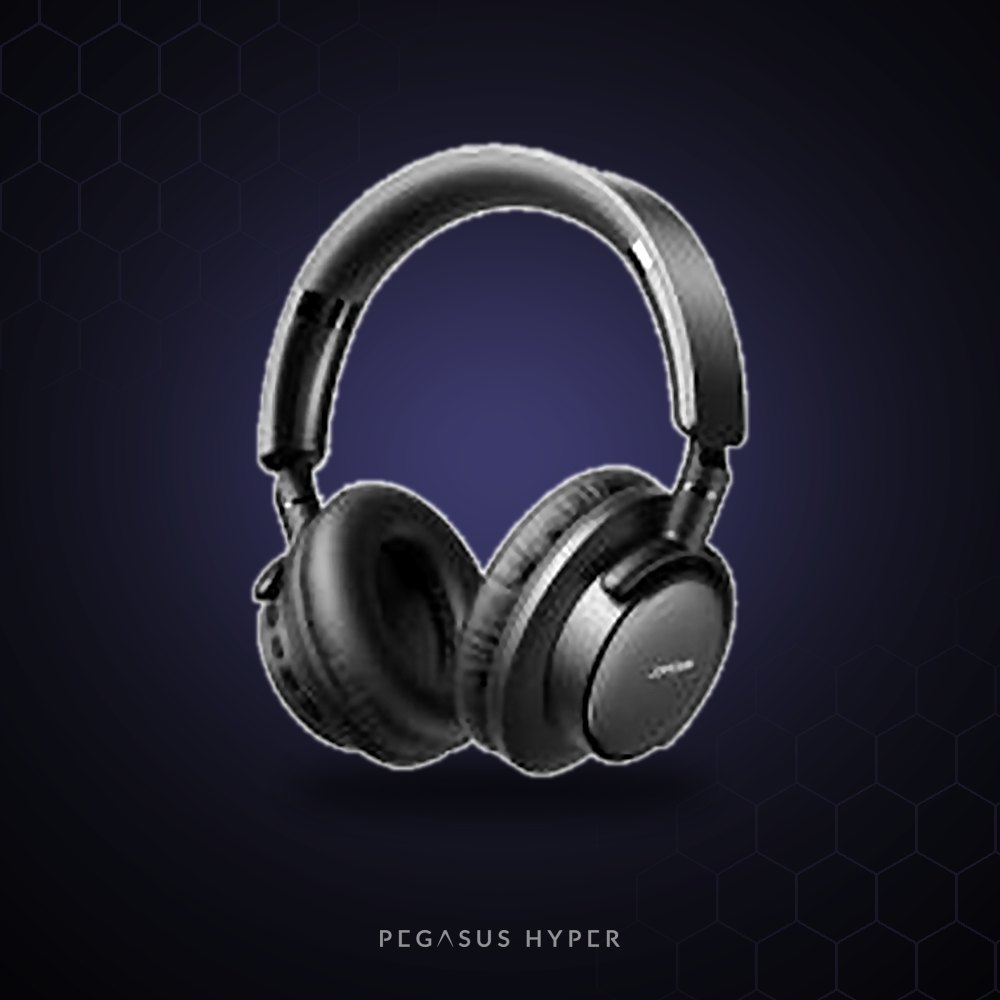
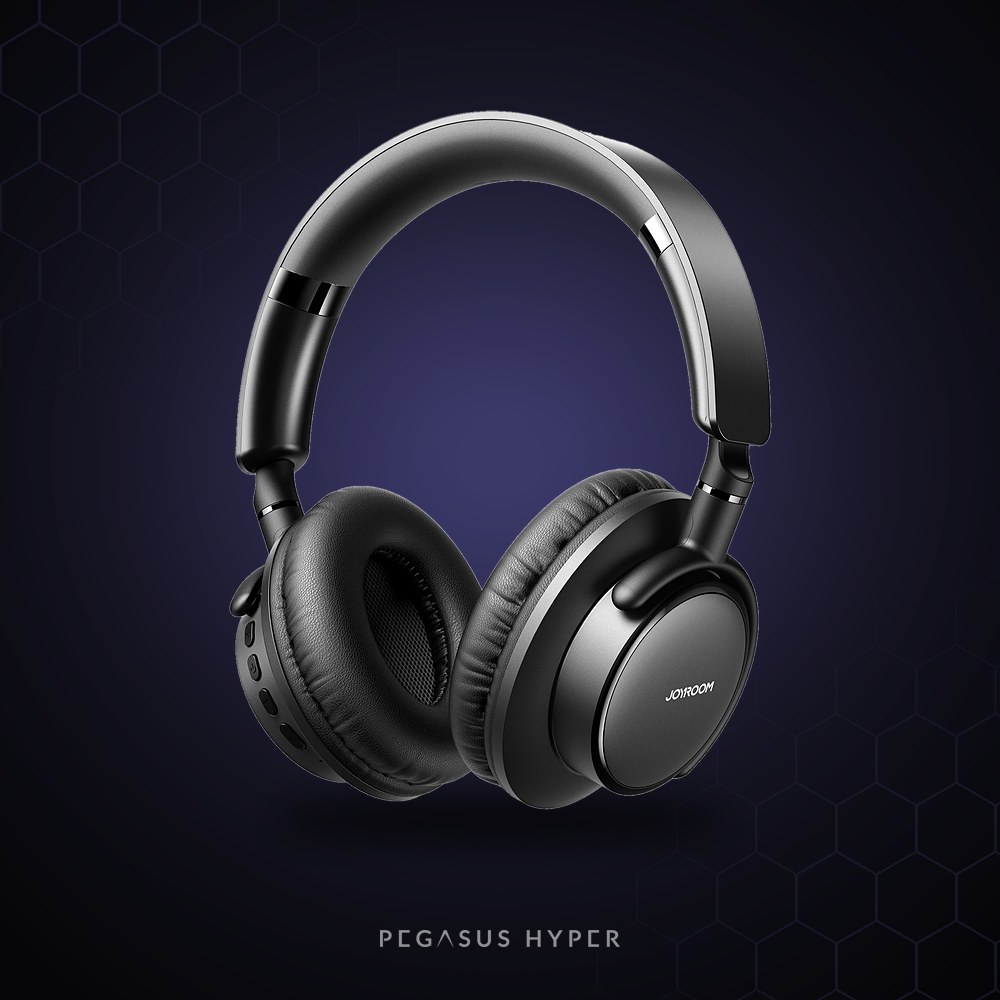
JR-OH1: fotos oficiales tratadas y galería de fotos en la ficha del producto
Claude-Session: https://claude.ai/code/session_01QzBC3GvQTn7Gt9U5Snn8Cv

Changed region(s): [[0.217, 0.093, 0.775, 0.806]]

diff --git a/public/index.html b/public/index.html
@@ -299,6 +299,11 @@ footer button.fl2:hover,footer a:hover{color:#fff}
 @keyframes pop{from{transform:scale(.97);opacity:.6}}
 .pd .ph{background:#0B0B10;position:sticky;top:0}
 .pd .ph img{width:100%;height:100%;object-fit:cover;aspect-ratio:1}
+.pd .ph img#pd-main{height:auto;display:block}
+.pd .thumbs{display:flex;gap:8px;justify-content:center;padding:10px 12px 14px;background:#0B0B10}
+.pd .thumbs button{width:52px;height:52px;padding:0;border-radius:10px;overflow:hidden;border:2px solid rgba(255,255,255,.25);background:#0B0B10;cursor:pointer;flex:none}
+.pd .thumbs button[aria-pressed="true"]{border-color:#fff}
+.pd .thumbs img{width:100%;height:100%;aspect-ratio:1;display:block}
 .pd .tx{padding:26px;display:grid;gap:12px;align-content:start}
 .pd h3{margin:0;font-family:var(--f-display);font-weight:600;font-size:26px;line-height:1.15}
 .pd .price{font-size:30px}
@@ -534,6 +539,7 @@ const prodById=id=>PRODUCTS.find(p=>p.id===id);
 
 /* ---------- product card ---------- */
 const EXTRA={"MER0052":{"modelo":"LX-10","descripcion":"Audífonos inalámbricos Bluetooth con estuche de carga.\nLiviano y fácil de llevar en el bolsillo. Ideal para música, llamadas y videos."},"MER0038":{"modelo":"Z10 Plus","descripcion":"Audífonos inalámbricos Bluetooth con estuche de carga.\nDiseño compacto para usar todos los días: música, llamadas y videos."},"MER0040":{"modelo":"L58","descripcion":"Audífonos inalámbricos Bluetooth con estuche de carga.\nCómodos y livianos, para música y llamadas desde el celular."},"6975011279940":{"modelo":"GH-28","descripcion":"Audífonos inalámbricos con Bluetooth 5.3 y conexión estable de hasta 10 metros.\n• Hasta 4 horas de conversación por carga\n• Hasta 60 horas en espera\n• Estuche de carga de 250 mAh, carga completa en 2 horas"},"6974202422141":{"modelo":"Z50","descripcion":"Audífonos inalámbricos Bluetooth marca Amaya, con estuche de carga con pantalla.\nDiseño moderno para música, llamadas y videos."},"6974208800187":{"modelo":"ATW-10","descripcion":"Audífonos inalámbricos Bluetooth marca Amaya, con estuche de carga.\nDiseño premium para el uso diario."},"6942712400423":{"modelo":"JR-FN3","descripcion":"Audífonos inalámbricos Joyroom con cancelación activa de ruido (ANC) que bloquea hasta −38 dB del ruido exterior.\n• 4 micrófonos con reducción de ruido para llamadas claras\n• Ideales para el bus, la oficina o la calle"},"6956116759285":{"modelo":"JR-OH1","descripcion":"Audífonos de diadema inalámbricos marca Joyroom.\nAlmohadillas cómodas para usar por horas: música, clases, trabajo y juegos."},"MBL005":{"modelo":"BT12C","descripcion":"Intercomunicador Bluetooth para casco de moto: hable por teléfono y escuche música mientras maneja.\n• Bluetooth 5.0, alcance de 10 metros\n• Batería de 1000 mAh: 15 a 20 horas de uso continuo\n• Hasta 240 horas en espera\n• Contesta llamadas de forma automática o manual"},"MBL0009":{"modelo":"BT22","descripcion":"Intercomunicador Bluetooth para casco de moto.\nHable por teléfono y escuche la música o el GPS sin quitarse el casco."},"PPB0179":{"modelo":"Y-598","descripcion":"Parlante Bluetooth con diseño flotante y sonido 360° que llena todo el espacio.\n• Parlante de 40 mm con imán de neodimio y subwoofer\n• Al apagarse, el cuerpo flotante se sujeta solo a la base para no caerse"},"PPB0186":{"modelo":"GS-31","descripcion":"Parlante Bluetooth 5.0 con función manos libres para contestar llamadas.\n• Dos parlantes de 5 W\n• Batería de 1200 mAh: unas 3 horas de música\n• Alcance de 10 metros"},"689237565287":{"modelo":"OP-528","descripcion":"Parlante Bluetooth de fiesta, incluye micrófonos para karaoke.\n• Potencia máxima de 25 W\n• Parlante de 4\" y tweeter de 1,5\"\n• Batería de 3600 mAh: hasta 6 horas de uso\n• Bluetooth 5.0"},"689237566587":{"modelo":"OP-521","descripcion":"Parlante Bluetooth con luces LED RGB y cargador inalámbrico para el celular.\n• Potencia de 10 W\n• Bluetooth 5.0, alcance de 10 metros\n• Entradas USB, AUX y tipo C"},"6920465335506":{"modelo":"OP-550","descripcion":"Parlante Bluetooth grande marca Oudiobop, ideal para fiestas y reuniones."},"6954851211907":{"modelo":"RB-M2","descripcion":"Parlante Bluetooth compacto marca Remax, serie Cooplay.\nPequeño, resistente y fácil de llevar a cualquier lugar."},"6954823523243":{"modelo":"P-01","descripcion":"Cargador de pared USB marca Planet, para el uso diario en la casa o la oficina."},"CTC0036":{"modelo":"EI2","descripcion":"Cargador de pared con carga rápida QC 3.0 de hasta 18 W. Incluye cable tipo C.\n• Salidas: 5 V 3,1 A · 9 V 2,1 A · 12 V 1,6 A\n• Entrada universal 100–240 V"},"6975011274839":{"modelo":"GA-55MTO","descripcion":"Cargador de pared marca Gerlax con cable tipo C incluido."},"6954851233770":{"modelo":"RCC353","descripcion":"Cargador para carro con transmisor FM: cargue el celular y escuche su música por la radio del carro.\n• Salida de 3 A"},"6971916562231":{"modelo":"CB21","descripcion":"Cable USB a tipo C de 1 metro para cargar y pasar datos."},"CBCL0022":{"modelo":"CB26","descripcion":"Cable USB a Lightning de 2 metros para iPhone y iPad.\nEl largo ideal para usar el celular mientras carga."},"6954851294078":{"modelo":"RC-129i","descripcion":"Cable USB a Lightning de 1 metro para iPhone.\nCarga y transfiere datos al mismo tiempo."},"6956116728199":{"modelo":"S-A43","descripcion":"Cable USB a Lightning de 1,5 metros para iPhone, con chip inteligente para carga rápida.\n• Cobre grueso que no se calienta\n• Trenzado reforzado: resiste más de 10.000 dobleces"},"6956116765002":{"modelo":"JR-PR1","descripcion":"Batería portátil de 10.000 mAh con carga rápida de hasta 22,5 W.\n• Salida y entrada tipo C\n• Tamaño compacto: 10,2 × 6 × 2,7 cm, 200 g\n• Carga el celular varias veces"},"6954851212980":{"modelo":"RPP-588","descripcion":"Batería portátil de 15.000 mAh, batería de polímero de litio.\nIdeal para viajes y días largos fuera de casa."},"6954851237808":{"modelo":"CP-1","descripcion":"Batería portátil con carga inalámbrica magnética de 15 W y carga rápida de 22,5 W.\n• Se pega magnéticamente a iPhone con MagSafe\n• Compatible con carga inalámbrica de 5 a 15 W"},"6956116793807":{"modelo":"JR-ZS240 Pro","descripcion":"Soporte para celular que se instala en la rejilla del aire del carro.\nFirme y fácil de usar con el GPS."},"6941237197160":{"modelo":"JR-ZS291","descripcion":"Soporte magnético para la rejilla del carro con carga inalámbrica de hasta 15 W.\n• Imanes de neodimio que alinean el celular solo\n• Para celulares de 4,7\" a 6,7\"\n• Entrada tipo C"},"6956116734817":{"modelo":"JR-ZS393","descripcion":"Soporte magnético con ventosas que se pega a cualquier superficie lisa: espejo, azulejo, carro o escritorio.\n• Imanes N52 de alta potencia\n• Compatible con iPhone 12 a 15 y estuches MagSafe; otros celulares con el anillo metálico incluido"},"HHM0002":{"modelo":"YC50","descripcion":"Soporte de escritorio para celular marca Yookie, color plateado.\nIdeal para videollamadas, recetas o ver videos."},"6976623340578":{"modelo":"MG-02","descripcion":"Soporte de cuello para grabar con el celular o una cámara con las manos libres.\n• Compatible con MagSafe\n• Silicona y policarbonato, 235 g\n• Incluye clip para celular, adhesivo y correa"},"6956116743826":{"modelo":"JR-FC1","descripcion":"Reloj inteligente con pantalla redonda de 1,28\" y función de llamadas.\n• Resistente al agua IP68\n• Bluetooth 5.3\n• Batería de 220 mAh"},"6956116717872":{"modelo":"JR-FT5","descripcion":"Reloj inteligente con pantalla táctil de 1,83\".\n• Resistente al agua IP68\n• Batería de 300 mAh: de 7 a 10 días de uso típico\n• Bluetooth 5.3"},"RRI0036":{"modelo":"HK98","descripcion":"Reloj inteligente con pantalla redonda HD de 1,43\".\n• Ritmo cardíaco, sueño, pasos y ejercicio\n• Contesta y marca llamadas, avisos de mensajes\n• Resistente al agua IP67, compatible con iPhone y Android"},"PPT0012":{"modelo":"ITOP-305","descripcion":"Vidrio templado King Kong para iPhone 17 y 17 Pro.\n• Alta resistencia contra golpes, rayones y caídas\n• Alta definición: mantiene la nitidez de la pantalla\n• Instalación rápida y sin burbujas"},"PPT0011":{"modelo":"ITOP-305","descripcion":"Vidrio templado King Kong para iPhone 17 y iPhone Air.\n• Alta resistencia contra golpes, rayones y caídas\n• Alta definición: mantiene la nitidez de la pantalla\n• Instalación rápida y sin burbujas"},"PPT0005":{"modelo":"ITOP-305","descripcion":"Vidrio templado King Kong para iPhone 16.\n• Alta resistencia contra golpes, rayones y caídas\n• Alta definición: mantiene la nitidez de la pantalla\n• Instalación rápida y sin burbujas"},"PPT0007":{"modelo":"ITOP-305","descripcion":"Vidrio templado King Kong para iPhone 16 Pro.\n• Alta resistencia contra golpes, rayones y caídas\n• Alta definición: mantiene la nitidez de la pantalla\n• Instalación rápida y sin burbujas"},"PPT0004":{"modelo":"ITOP-305","descripcion":"Vidrio templado King Kong para iPhone 15 Pro Max.\n• Alta resistencia contra golpes, rayones y caídas\n• Alta definición: mantiene la nitidez de la pantalla\n• Instalación rápida y sin burbujas"},"H0011":{"modelo":"Tuya Neón 5 m","descripcion":"Tira LED tipo neón RGB de 5 metros que se controla desde el celular con la app Tuya.\n• Colores RGB con efectos\n• Para decorar cuartos, escritorios y setups gamer\n• Uso en interiores (no es resistente al agua)"},"TRAC0018":{"modelo":"FL-S20D","descripcion":"Lámpara LED plana de 9\" con soporte de escritorio, ideal para videollamadas, clases y videos.\n• 5 tonos de luz y brillo ajustable\n• Cabezal giratorio de 180°\n• Batería recargable por USB"},"TRAC0019":{"modelo":"HL-144M","descripcion":"Barra de luz RGB portátil para fotos y videos.\n• 144 LED, potencia de 15 W\n• Batería de 4000 mAh: de 2 a 10 horas de uso\n• Carga tipo C en 2,5 horas"},"TRMU0025":{"modelo":"CM-50","descripcion":"Trípode de aluminio que se sujeta al borde del escritorio.\n• Para escritorios de hasta 8 cm de grosor\n• Sostiene luces, cámaras o el celular\n• Ideal para streamers y clases en línea"},"6976623340493":{"modelo":"MC-PW13","descripcion":"Micrófono USB para PC y celular (incluye conexión tipo C).\n• Patrón cardioide: capta su voz y reduce el ruido del fondo\n• Conectar y usar, sin instalar programas\n• Para podcasts, streaming, clases y juegos"},"6974363711382":{"modelo":"PG-9666SH","descripcion":"Control inalámbrico Bluetooth con luces RGB.\n• Compatible con Android, iPhone y iPad, PC, Nintendo Switch, PS3 y PS4\n• Diseño ergonómico y cómodo"},"6974363710248":{"modelo":"PG-SW018","descripcion":"Control inalámbrico para Nintendo Switch, Android y PC, con luces LED.\n• Más de 15 horas de juego continuo\n• Batería de 400 mAh, carga en unas 3 horas"},"6987542691351":{"modelo":"PG-9135","descripcion":"Joystick tipo arcade para celular y tablet, Android y iOS.\n• Conexión Bluetooth, alcance de 8 metros\n• Batería recargable de 380 mAh"},"6932391918623":{"modelo":"CM370","descripcion":"Kit gamer 4 en 1: teclado, mouse, audífonos y mouse pad.\n• Teclado con luces de colores y diseño antiderrame\n• Mouse de 800 a 3200 DPI ajustable"},"6932391931042":{"modelo":"SG-302","descripcion":"Parlante en forma de lámpara G con luces RGB de colores. Marca Marvo, línea Scorpion."},"6932391929025":{"modelo":"SG-286","descripcion":"Barra de sonido para computadora con Bluetooth y cable, con luces RGB.\n• Potencia de 5 W × 2\n• Conexión USB 5 V + 3,5 mm\n• 42 × 9,5 × 6,7 cm"},"6932391933336":{"modelo":"BS010","descripcion":"Parlante Bluetooth 5.3 estilo cubo con luces RGB.\n• Potencia de 5 W × 2\n• Batería de 1200 mAh: unas 3 horas de música\n• Entradas TF y AUX"},"6932391925164":{"modelo":"SG-274","descripcion":"Par de parlantes para computadora con 6 efectos de luz RGB.\n• Potencia de 3 W × 2\n• Conexión por cable 3,5 mm + USB o Bluetooth\n• Perilla de volumen y control táctil de luces"},"6932391932179":{"modelo":"SG-500","descripcion":"Par de parlantes estéreo 2.0 con iluminación RGB.\n• Alimentación por USB 5 V\n• Parlantes de 52 mm"},"6932391927571":{"modelo":"SG-132","descripcion":"Parlante gamer grande con Bluetooth 5.0 y luces RGB.\n• Potencia de 20 W, parlante de 8\"\n• Entrada para micrófono de 6,5 mm, USB y 3,5 mm"},"6932391925782":{"modelo":"SG-272","descripcion":"Barra de sonido para computadora con 10 W y luces RGB.\n• Conectar y usar, sin instalar programas\n• Alimentación por USB y conexión de 3,5 mm"},"6932391926574":{"modelo":"SG-100","descripcion":"Barra de sonido portátil Bluetooth 5.0 con 10 modos de luz RGB.\n• Batería de 4000 mAh: de 3 a 4 horas de juego\n• Conexión Bluetooth o AUX"},"6932391924181":{"modelo":"SG-235","descripcion":"Sistema de parlantes 2.1 para computadora con luces RGB.\n• Potencia de 5 W\n• Alimentación USB y conexión de 3,5 mm"},"6932391923955":{"modelo":"SG-280","descripcion":"Parlante para juegos 2 en 1: se usa como barra de sonido o como par de parlantes.\n• Conexión por cable o Bluetooth\n• 6 modos de luz RGB con control táctil\n• Potencia de 3 W × 2"},"6970939958212":{"modelo":"L101","descripcion":"Barra de sonido compacta marca Lenovo, color negro."},"6932391923832":{"modelo":"SG-269","descripcion":"Par de parlantes gamer con luces RGB y control táctil.\n• Modo con cable o inalámbrico\n• Potencia de 3 W × 2\n• Ideal para juegos, películas y música"},"6932391920138":{"modelo":"SG-118","descripcion":"Par de parlantes compactos para computadora con luces RGB. Marca Marvo, línea Scorpion."},"6932391919712":{"modelo":"SG-265","descripcion":"Par de parlantes para computadora con aros de luz y sonido envolvente.\n• Potencia de 3 W × 2\n• Conectar y usar, alimentación USB"}};
+const GAL={"6956116759285": {"n": 3, "v": 1794104781}};
 function shortDesc(t){return String(t).split(/\n/).map(x=>x.replace(/^[•\-*]\s*/,"").trim()).filter(Boolean).join(" ")}
 function card(p){
   const q=cart[p.id];
@@ -665,13 +671,13 @@ function closeModal(){$("#modal-root").innerHTML="";if(/^#producto-/.test(locati
 function openProduct(id){
   const p=prodById(id);if(!p)return;closeMega();
   const rel=PRODUCTS.filter(x=>x.categoria===p.categoria&&x.id!==p.id&&!x.agotado).slice(0,4);
-  $("#modal-root").innerHTML='<div class="scrim center" id="mscrim"><div class="pd" role="dialog" aria-modal="true" aria-label="'+esc(p.nombre)+'"><button class="x" type="button" id="mclose" aria-label="Cerrar">✕</button><div class="ph"><img src="'+esc(p.foto)+'" alt="'+esc(p.nombre)+'" width="460" height="460"></div><div class="tx">'+
+  $("#modal-root").innerHTML='<div class="scrim center" id="mscrim"><div class="pd" role="dialog" aria-modal="true" aria-label="'+esc(p.nombre)+'"><button class="x" type="button" id="mclose" aria-label="Cerrar">✕</button><div class="ph"><img id="pd-main" src="'+esc(p.foto)+'" alt="'+esc(p.nombre)+'" width="460" height="460">'+((p.galeria||[]).length>1?'<div class="thumbs">'+p.galeria.map((u,k)=>'<button type="button" data-g="'+esc(u)+'" aria-label="Foto '+(k+1)+'" aria-pressed="'+(k===0)+'"><img src="'+esc(u)+'" alt="" width="64" height="64"></button>').join("")+'</div>':'')+'</div><div class="tx">'+
    '<span class="brandl">'+esc(p.marca)+' · '+esc(p.categoria)+'</span><h3>'+esc(p.nombre)+'</h3><dl class="spec"><dt>Modelo</dt><dd>'+esc(p.modelo||"—")+'</dd><dt>Marca</dt><dd>'+esc(p.marca)+'</dd></dl><div class="price num">'+crc(p.precio)+'</div>'+(p.descripcion?'<div class="desc">'+fmtDesc(p.descripcion)+'</div>':'')+
    
    (p.agotado?'<div class="tag out" style="position:static;justify-self:start">Agotado</div>':'<button class="btnp" type="button" id="pd-add">'+(cart[p.id]?'Agregar otro ('+cart[p.id]+' en el carrito)':'Agregar al carrito')+'</button><button class="lnk" type="button" id="pd-buy">Comprar ahora →</button>')+
    accordion()+'<button class="share" type="button" id="pd-share"><svg viewBox="0 0 24 24" fill="none" stroke="currentColor" stroke-width="2" stroke-linecap="round" stroke-linejoin="round"><path d="M12 3v12M7 8l5-5 5 5"/><path d="M5 13v6a2 2 0 0 0 2 2h10a2 2 0 0 0 2-2v-6"/></svg>Compartir</button>'+
    (rel.length?'<div style="display:grid;gap:8px;margin-top:6px"><b style="font-size:13px;color:var(--muted)">También le puede interesar</b><div style="display:grid;grid-template-columns:repeat(4,1fr);gap:8px">'+rel.map(r=>'<button class="mitem" type="button" data-open="'+esc(r.id)+'"><img src="'+esc(r.foto)+'" alt="'+esc(r.nombre)+'" width="90" height="90"><b class="num">'+crc(r.precio)+'</b></button>').join("")+'</div></div>':'')+'</div></div></div>';
-  $("#mscrim").addEventListener("click",e=>{if(e.target.id==="mscrim")closeModal()});$("#mclose").addEventListener("click",closeModal);
+  $("#mscrim").addEventListener("click",e=>{if(e.target.id==="mscrim")closeModal()});$$(".thumbs [data-g]").forEach(t=>t.addEventListener("click",()=>{$("#pd-main").src=t.dataset.g;$$(".thumbs [data-g]").forEach(x=>x.setAttribute("aria-pressed",x===t))}));$("#mclose").addEventListener("click",closeModal);
   const a=$("#pd-add");if(a)a.addEventListener("click",()=>{addOne(p.id);openProduct(p.id)});
   const b=$("#pd-buy");if(b)b.addEventListener("click",()=>{if(!cart[p.id])addOne(p.id);closeModal();openCart()});
   $("#pd-share").addEventListener("click",async()=>{const url=location.origin+"/#producto-"+encodeURIComponent(p.id);const data={title:p.nombre+" | "+STORE.nombre,text:p.nombre+" a "+crc(p.precio),url};
@@ -856,7 +862,7 @@ function applyStore(){setWa();phonePretty=String(STORE.whatsapp).replace(/^506/,
 renderShop();refreshCounts();
 fetch("/api/catalog").then(r=>{if(!r.ok)throw 0;return r.json()}).then(d=>{
   STORE={...STORE,...d.store};
-  PRODUCTS=(d.productos||[]).map((p,i)=>{const x=EXTRA[p.id]||{};p={...p,modelo:p.modelo||x.modelo||"",descripcion:p.descripcion||x.descripcion||""};const m=p.marca||brandOf(p);return{...p,marca:m,score:(p.destacado?1e9:0)+p.precio*0+(1000-i)+({"Audífonos":600,"Moto":550,"Parlantes":500,"Iluminación":450,"Relojes":420,"Power banks":400,"Gaming":380,"Soportes":360,"Cargadores":340,"Cables":320,"Protectores":300,"Creadores":280}[p.categoria]||0)}});
+  PRODUCTS=(d.productos||[]).map((p,i)=>{const x=EXTRA[p.id]||{},g=GAL[p.id];if(g&&p.foto==="img/"+p.id+".jpg")p.foto+="?v="+g.v;p={...p,galeria:g?[p.foto].concat(Array.from({length:g.n-1},(_,k)=>"img/"+p.id+"-"+(k+2)+".jpg?v="+g.v)):[p.foto],modelo:p.modelo||x.modelo||"",descripcion:p.descripcion||x.descripcion||""};const m=p.marca||brandOf(p);return{...p,marca:m,score:(p.destacado?1e9:0)+p.precio*0+(1000-i)+({"Audífonos":600,"Moto":550,"Parlantes":500,"Iluminación":450,"Relojes":420,"Power banks":400,"Gaming":380,"Soportes":360,"Cargadores":340,"Cables":320,"Protectores":300,"Creadores":280}[p.categoria]||0)}});
   Object.keys(cart).forEach(k=>{const p=prodById(k);if(!p||p.agotado)delete cart[k]});
   applyStore();loaded=true;renderAll();refreshCounts();
   const dl=location.hash.match(/^#producto-(.+)$/);if(dl)openProduct(decodeURIComponent(dl[1]));
